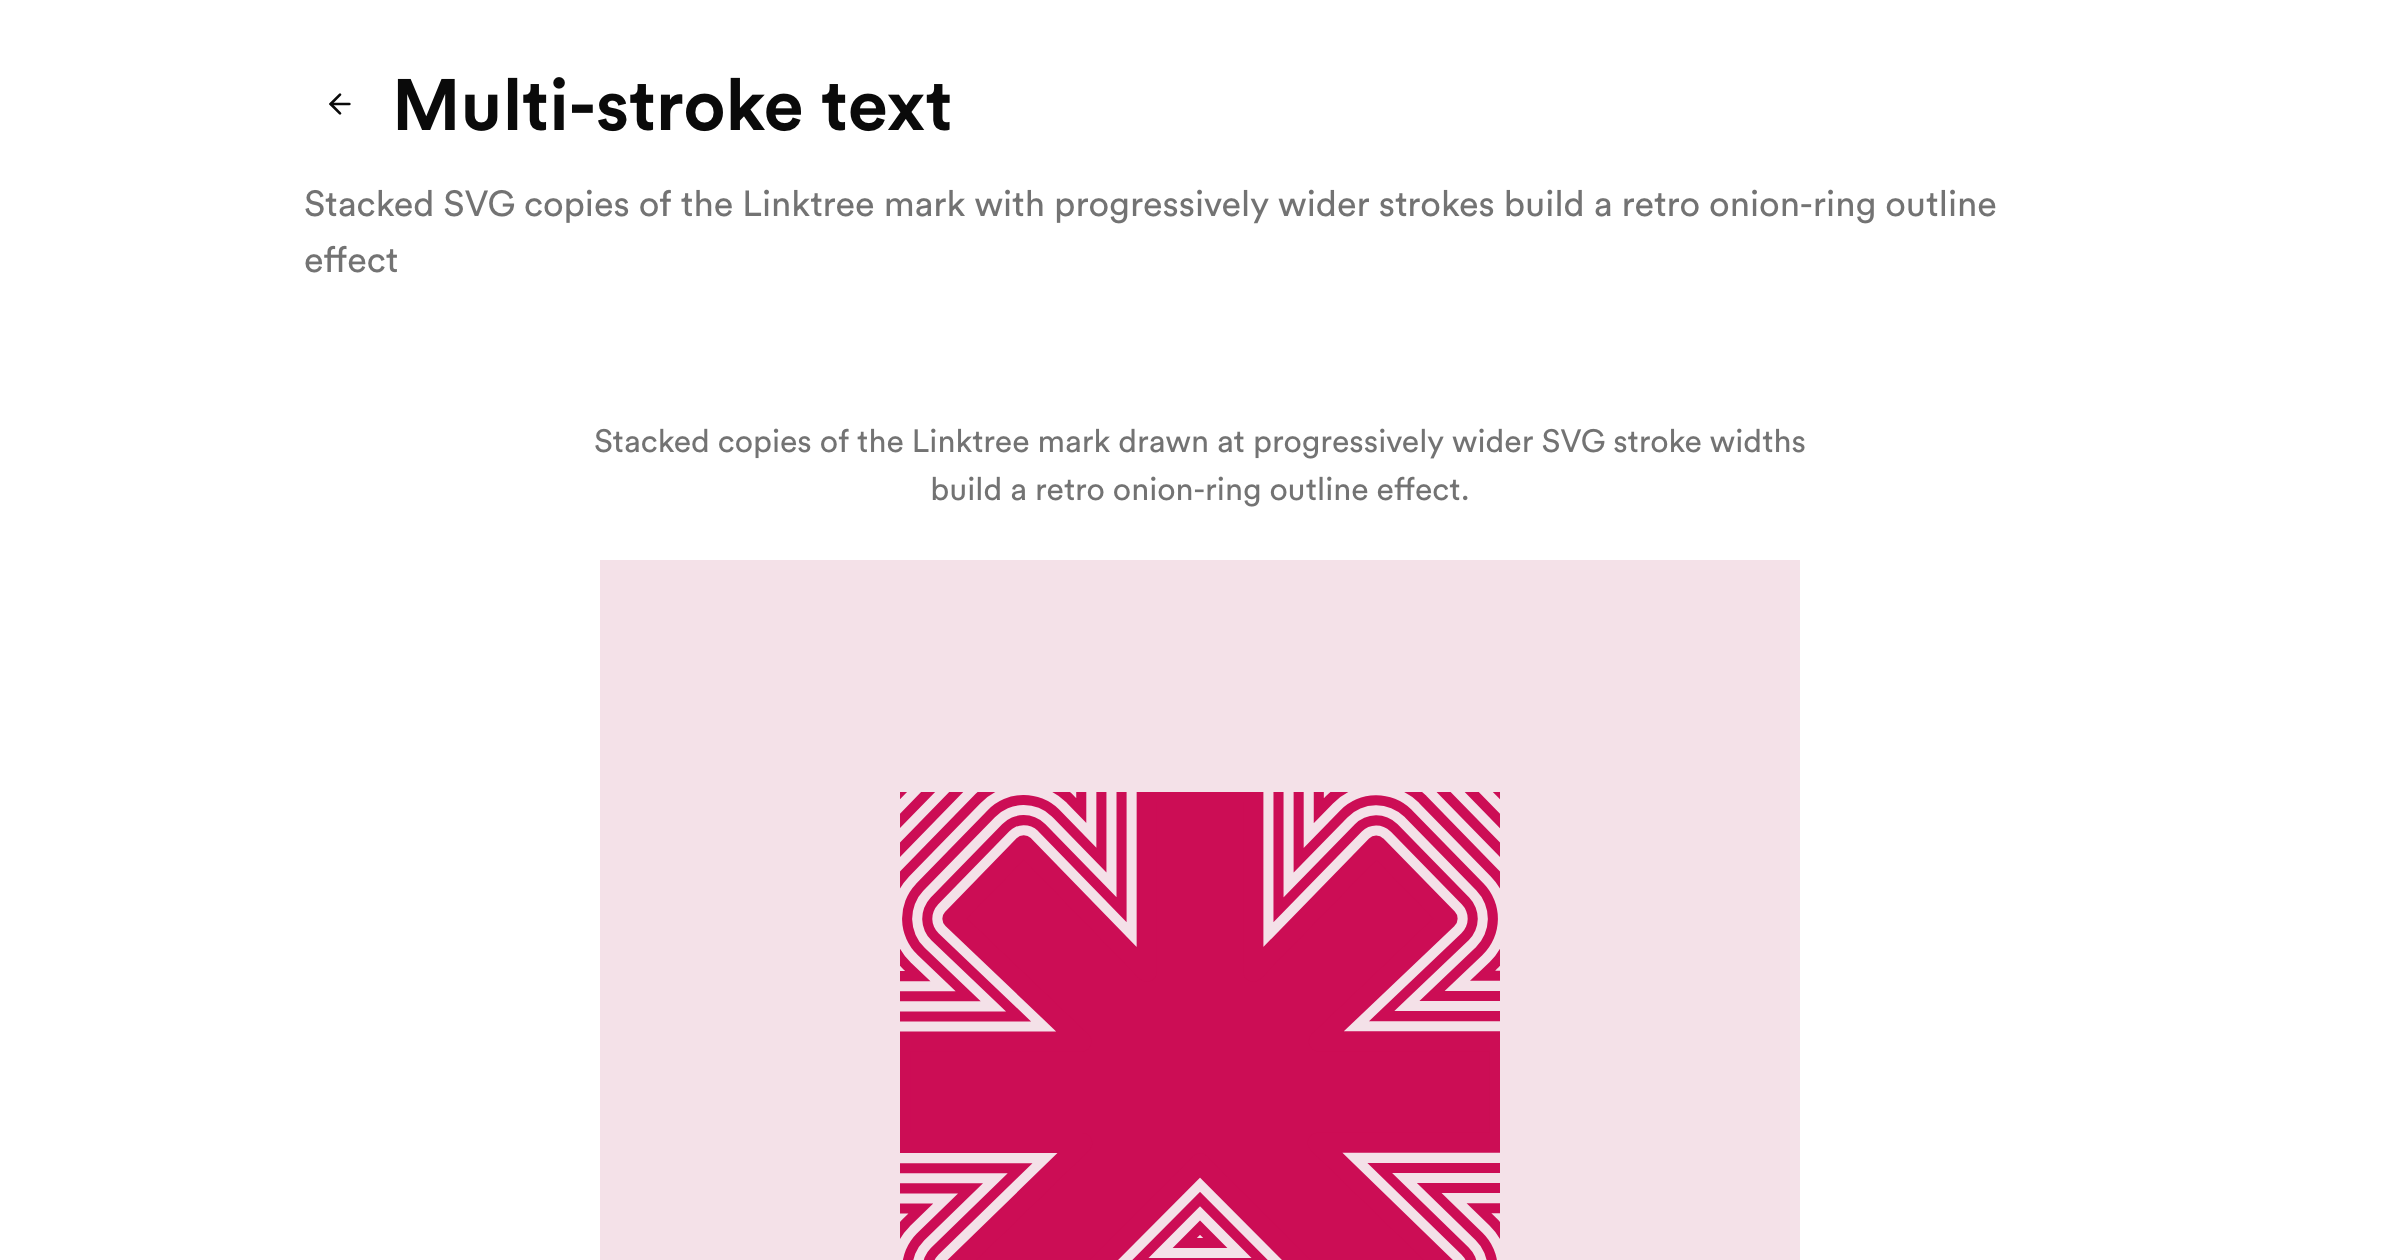
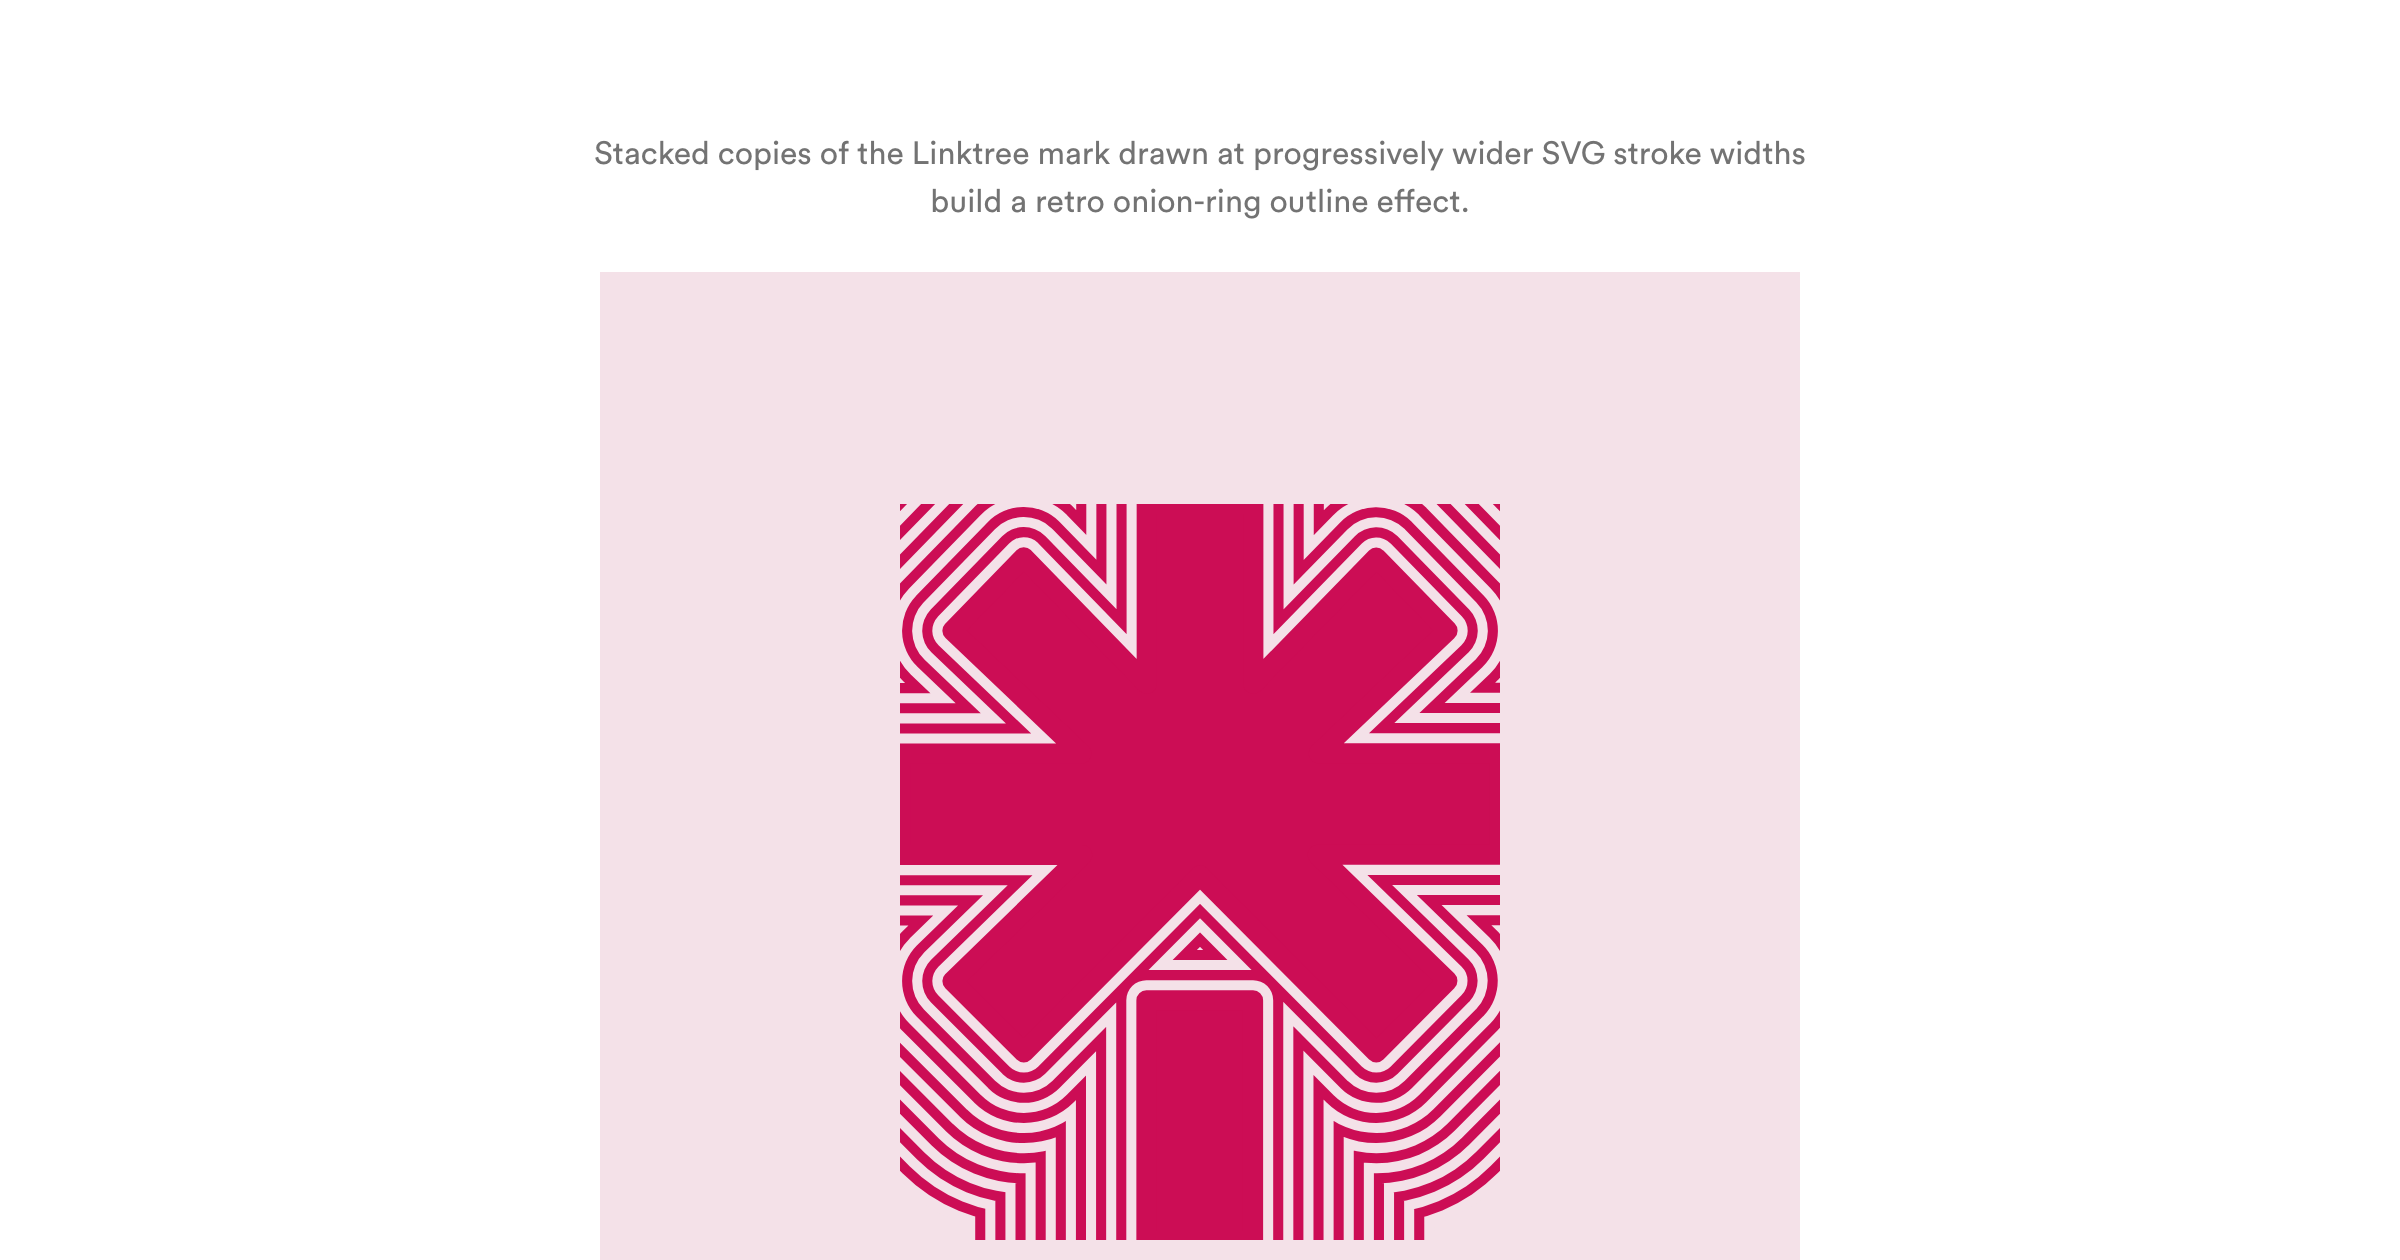
Exclude header chrome from OG screenshots
Hide the title/description/back-arrow header when capturing OG images so
each preview shows only the demo. Header gets a data-experiment-header
marker; the screenshot script injects CSS to hide it before capture.

Changed region(s): [[0.25, 0.2167, 0.75, 1.0], [0.125, 0.0619, 0.8438, 0.2167]]

diff --git a/components/ui/header.tsx b/components/ui/header.tsx
@@ -2,6 +2,7 @@
 
 import { ArrowLeft } from "lucide-react";
 import Link from "next/link";
+
 import { Button } from "@/components/ui/button";
 import { blocks } from "@/lib/blocks";
 import { cn } from "@/lib/utils";
@@ -13,7 +14,7 @@ interface Props {
 
 export const Header = ({ id, className }: Props) => {
   return (
-    <div className={cn("mb-8", className)}>
+    <div className={cn("mb-8", className)} data-experiment-header>
       <div className="flex items-center gap-2">
         <Button
           asChild
